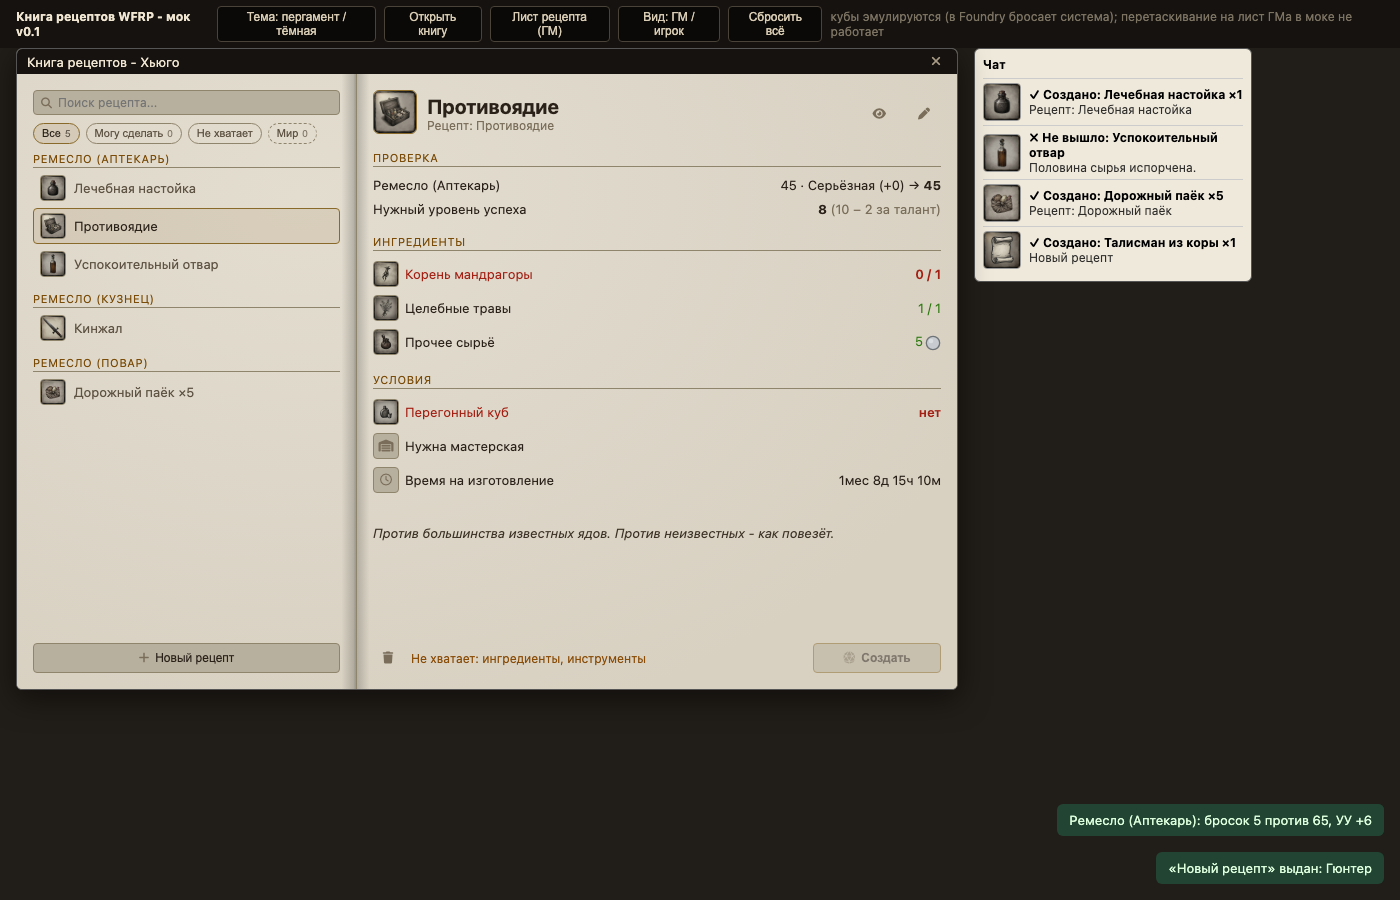
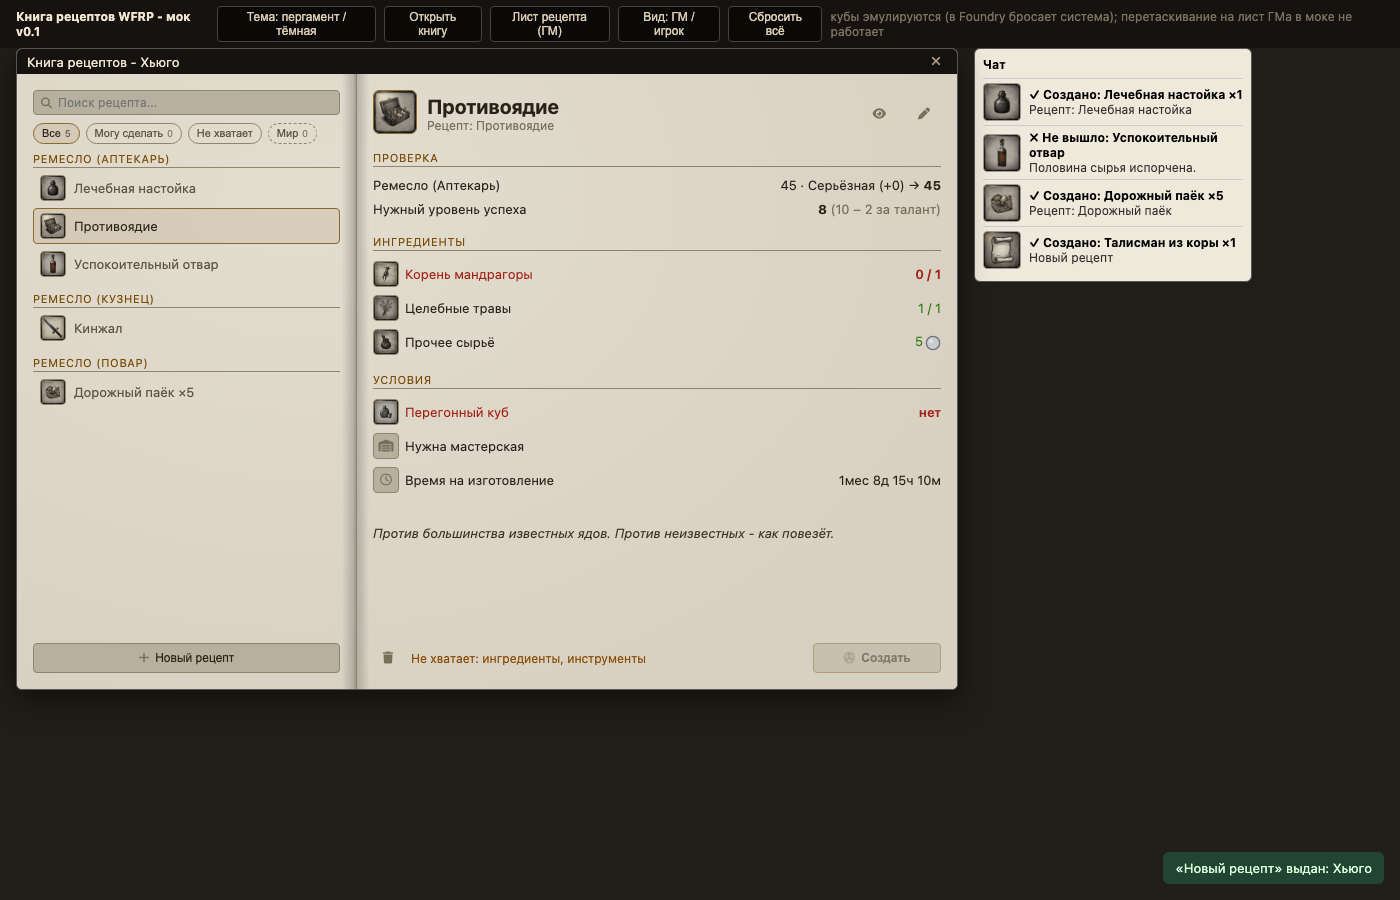
v0.1.6: выдача только персонажам игроков, вопрос «выдать игроку?» при сохранении рецепта из книги игрока

Changed region(s): [[0.7371, 0.8711, 1.0, 0.9333], [0.8293, 0.9644, 0.9829, 0.9956]]

diff --git a/scripts/recipe-sheet.js b/scripts/recipe-sheet.js
@@ -3,7 +3,7 @@
    сырьё = 1/4 цены - по правилам «Создание предмета» (стр. 199). */
 
 import { MODULE_ID, FALLBACK_DIFFICULTIES } from "./recipe-model.js";
-import { L, esc, COIN_VALUE, coinIco, priceBp, skillNames, itemIndex, RecipeBookApp } from "./recipe-book.js";
+import { L, F, esc, COIN_VALUE, coinIco, priceBp, skillNames, itemIndex, RecipeBookApp } from "./recipe-book.js";
 
 const RBSheetMixin = foundry.applications.api.HandlebarsApplicationMixin;
 const ItemSheetV2 = foundry.applications.sheets.ItemSheetV2;
@@ -82,7 +82,34 @@ export class RecipeSheet extends RBSheetMixin(ItemSheetV2) {
   }
 
   static async #onSave() {
-    if (this.isFresh) await this.document.unsetFlag("wfrp4e-recipe-book", "fresh");
+    if (this.isFresh) {
+      // Рецепт создан из книги игрока - спросить, выдать ли его этому игроку
+      const uuid = this.document.getFlag("wfrp4e-recipe-book", "forActor");
+      const actor = uuid ? await fromUuid(uuid).catch(() => null) : null;
+      if (actor?.hasPlayerOwner) {
+        const choice = await foundry.applications.api.DialogV2.wait({
+          window: { title: L("WFRPRB.Give.Title") },
+          content: `<p>${F("WFRPRB.Give.Ask", { name: esc(actor.name) })}</p>`,
+          buttons: [
+            { action: "give", label: L("WFRPRB.Give.Give"), default: true },
+            { action: "keep", label: L("WFRPRB.Give.Keep") },
+            { action: "cancel", label: L("WFRPRB.Sheet.Cancel") }
+          ]
+        }).catch(() => "cancel");
+        if (choice === "cancel") return; // вернуться к созданию рецепта
+        if (choice === "give") {
+          const obj = this.document.toObject();
+          delete obj._id;
+          if (obj.flags?.["wfrp4e-recipe-book"]) {
+            delete obj.flags["wfrp4e-recipe-book"].fresh;
+            delete obj.flags["wfrp4e-recipe-book"].forActor;
+          }
+          await actor.createEmbeddedDocuments("Item", [obj]);
+          ui.notifications.info(F("WFRPRB.World.Given", { name: this.document.name, actor: actor.name }));
+        }
+      }
+      await this.document.unsetFlag("wfrp4e-recipe-book", "fresh");
+    }
     this._snap = null;
     await this.close();
   }

diff --git a/scripts/recipe-book.js b/scripts/recipe-book.js
@@ -856,9 +856,11 @@ export class RecipeBookApp extends HandlebarsApplicationMixin(ApplicationV2) {
     if (!r) return;
     const old = this.element.querySelector(".rb-give-picker");
     if (old) return old.remove();
+    // Только персонажи ИГРОКОВ: тип character и есть владелец не-ГМ (NPC и прочие не показываем)
     const actors = (game.actors?.contents ?? [])
-      .filter((a) => ["character", "npc"].includes(a.type))
+      .filter((a) => a.type === "character" && a.hasPlayerOwner)
       .slice(0, 20);
+    if (!actors.length) return ui.notifications.warn(L("WFRPRB.World.NoPlayers"));
     const panel = document.createElement("div");
     panel.className = "rb-picker rb-give-picker";
     panel.innerHTML = `<div class="rb-picker-list">` + actors.map((a, i) =>
@@ -903,7 +905,8 @@ export class RecipeBookApp extends HandlebarsApplicationMixin(ApplicationV2) {
       name: L("WFRPRB.NewRecipe"),
       type: RECIPE_TYPE,
       img: `modules/${MODULE_ID}/assets/icons/recipe-default.png`,
-      flags: { [MODULE_ID]: { fresh: true } }  // создание с нуля: в листе нет «Сохранить как новый»
+      // создание с нуля + из чьей книги: «Сохранить» спросит, выдать ли рецепт этому игроку
+      flags: { [MODULE_ID]: { fresh: true, forActor: this.actor?.uuid ?? "" } }
     });
     if (!item) return;
     this.filter = "world";

diff --git a/tools/mock-runtime.js b/tools/mock-runtime.js
@@ -163,7 +163,10 @@
       api: {
         ApplicationV2,
         HandlebarsApplicationMixin: (Base) => class extends Base {},
-        DialogV2: { confirm: async () => window.__RB_CONFIRM__ ?? true }
+        DialogV2: {
+          confirm: async () => window.__RB_CONFIRM__ ?? true,
+          wait: async () => window.__RB_DIALOG_CHOICE__ ?? "keep"
+        }
       },
       sheets: { ItemSheetV2 },
       apps: { DocumentSheetConfig: { registerSheet() {} } }
@@ -237,6 +240,7 @@
       this.img = data.img ?? "";
       this.type = data.type ?? "character";
       this.isOwner = true;
+      this.hasPlayerOwner = data.hasPlayerOwner ?? true;
       this.system = structuredClone(data.system ?? { characteristics: {} });
       const arr = (data.items ?? []).map((d) => new FakeItem(this, d));
       arr.get = (id) => arr.find((i) => i.id === id);
